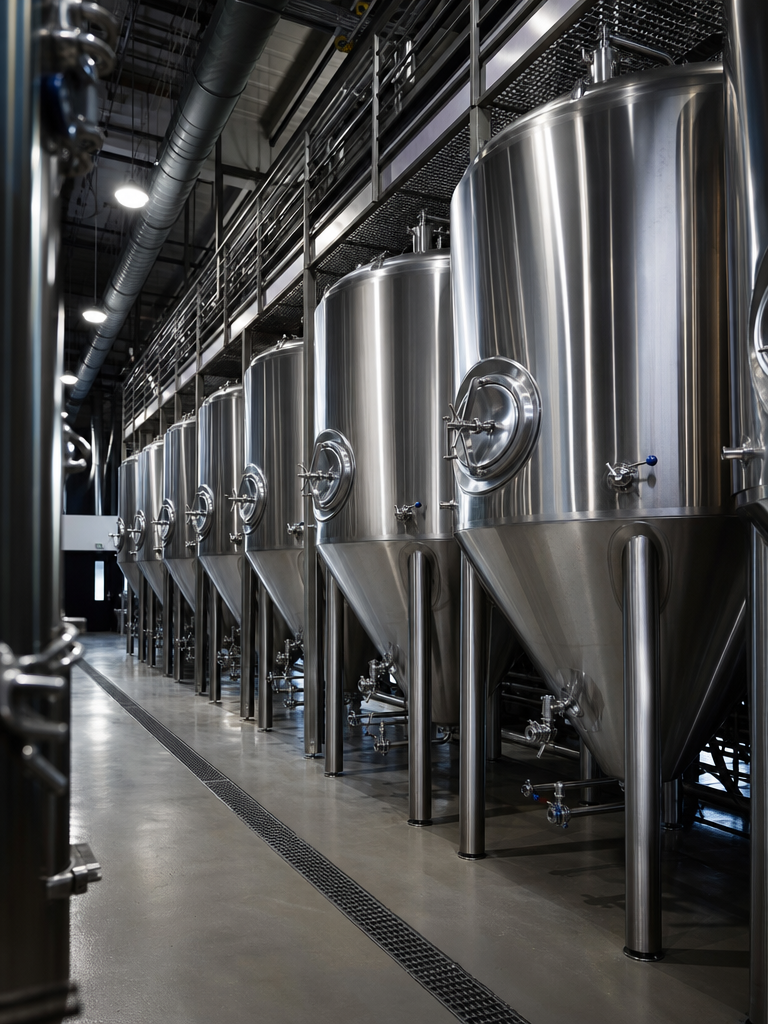
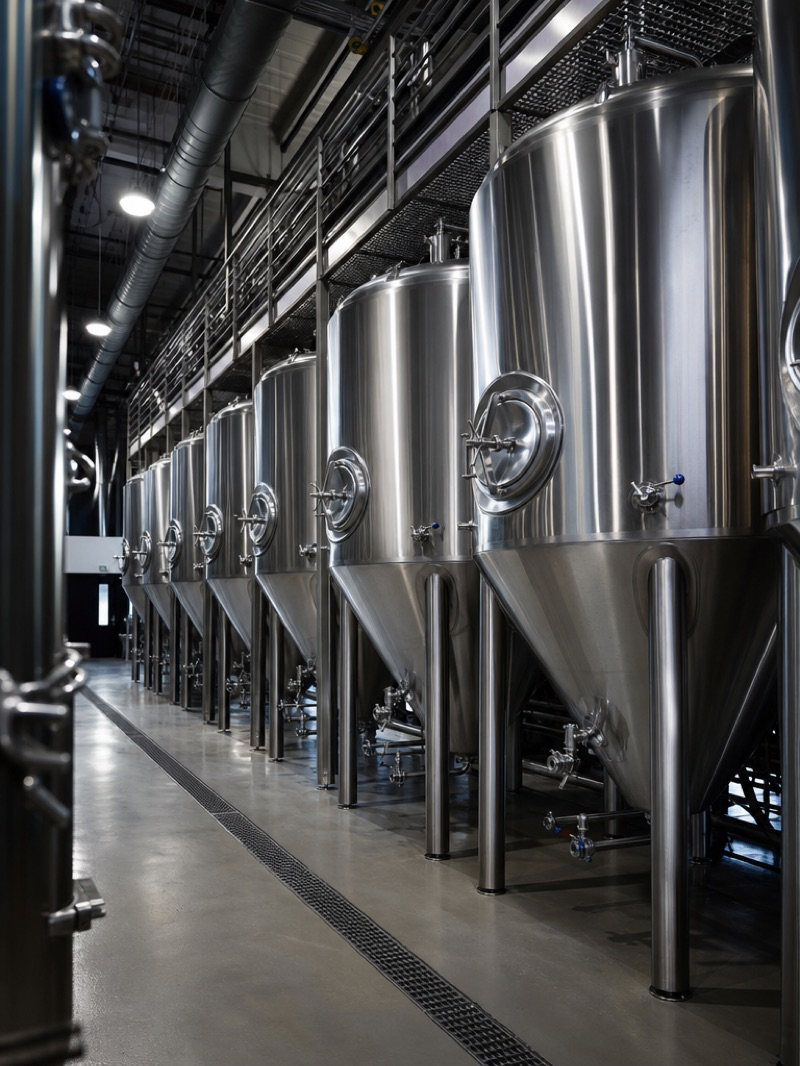
redesign category cards with AI images + wider layout

diff --git a/index.php b/index.php
@@ -709,51 +709,67 @@ window.scrollTo({top:document.querySelector('.db-qcard.active').offsetTop-120,be
 </section>
 
 <!-- EQUIPMENT CATEGORIES -->
-<section class="db-section alt" id="equipment">
-<div class="db-wrap">
+<section class="db-section alt" id="equipment" style="padding:64px 0 48px">
+<div class="db-wrap" style="max-width:1400px">
 <div class="db-section-line"></div>
 <h2 class="db-section-title">Категории оборудования</h2>
 <p class="db-section-sub">Полный каталог промышленного оборудования из нержавеющей стали AISI 304/316</p>
-<div class="cat-grid">
-<a href="/beer.html" class="cat-card" data-texture="beer">
-<div class="cat-card-texture"></div>
-<div class="cat-card-img"><img src="cct-tank.jpg" alt="Пивоваренное оборудование"></div>
-<div class="cat-card-body">
-<div class="cat-name">Пивоваренное оборудование</div>
-<div class="cat-desc">ЦКТ (100–50000 л), варочные порядки (6 типов), дробилки солода, баки горячей воды, парогенераторы, чиллеры, форфасы, теплообменники.</div>
-<div class="cat-count">13 категорий</div>
+<div class="cat-grid" style="grid-template-columns:repeat(auto-fill,minmax(280px,1fr));gap:24px">
+<a href="/beer.html" class="cat-card" style="position:relative;border-radius:14px;overflow:hidden;min-height:360px;display:flex;flex-direction:column;text-decoration:none;color:inherit;background:#fff;box-shadow:0 2px 12px rgba(0,0,0,.06);transition:transform .3s,box-shadow .3s;border:none" onmouseover="this.style.transform='translateY(-6px)';this.style.boxShadow='0 16px 48px rgba(247,124,42,.15)'" onmouseout="this.style.transform='';this.style.boxShadow=''">
+<div style="height:200px;overflow:hidden;position:relative">
+<img src="cat-img-565c2c35.jpg" alt="Пивоваренное оборудование" style="width:100%;height:100%;object-fit:cover;display:block;transition:transform .5s" onmouseover="this.style.transform='scale(1.08)'" onmouseout="this.style.transform='scale(1)'">
+<div style="position:absolute;bottom:0;left:0;right:0;height:60%;background:linear-gradient(transparent,rgba(0,0,0,.6))"></div>
 </div>
-<div class="cat-card-footer"><span class="btn-view">Перейти к каталогу</span></div>
+<div style="padding:20px 24px;flex:1;display:flex;flex-direction:column">
+<div style="font-size:18px;font-weight:700;color:#1a1a26;margin-bottom:4px">Пивоваренное</div>
+<div style="font-size:13px;color:#666;line-height:1.5;flex:1;margin-bottom:12px">ЦКТ, варочные порядки, дробилки, БГВ, парогенераторы, чиллеры, форфасы, теплообменники</div>
+<div style="display:flex;align-items:center;justify-content:space-between;border-top:1px solid #f0f0f0;padding-top:12px;margin-top:auto">
+<span style="font-size:12px;color:#F77C2A;font-weight:600">13 категорий</span>
+<span style="display:inline-flex;align-items:center;gap:4px;padding:6px 16px;background:linear-gradient(135deg,#F77C2A,#e06a15);color:#fff;border-radius:6px;font-size:12px;font-weight:700">Смотреть →</span>
+</div>
+</div>
 </a>
-<a href="/dairy.html" class="cat-card" data-texture="dairy">
-<div class="cat-card-texture"></div>
-<div class="cat-card-img"><img src="dairy-reception.jpg" alt="Молочное оборудование"></div>
-<div class="cat-card-body">
-<div class="cat-name">Молочное оборудование</div>
-<div class="cat-desc">Ёмкости приёмки и хранения молока, резервуары-охладители, ванны пастеризации, ферментационные танки, сыро- и творогоизготовители.</div>
-<div class="cat-count">10 категорий</div>
+<a href="/dairy.html" class="cat-card" style="position:relative;border-radius:14px;overflow:hidden;min-height:360px;display:flex;flex-direction:column;text-decoration:none;color:inherit;background:#fff;box-shadow:0 2px 12px rgba(0,0,0,.06);transition:transform .3s,box-shadow .3s;border:none" onmouseover="this.style.transform='translateY(-6px)';this.style.boxShadow='0 16px 48px rgba(247,124,42,.15)'" onmouseout="this.style.transform='';this.style.boxShadow=''">
+<div style="height:200px;overflow:hidden;position:relative">
+<img src="cat-dairy.jpg" alt="Молочное оборудование" style="width:100%;height:100%;object-fit:cover;display:block;transition:transform .5s" onmouseover="this.style.transform='scale(1.08)'" onmouseout="this.style.transform='scale(1)'">
+<div style="position:absolute;bottom:0;left:0;right:0;height:60%;background:linear-gradient(transparent,rgba(0,0,0,.6))"></div>
 </div>
-<div class="cat-card-footer"><span class="btn-view">Перейти к каталогу</span></div>
+<div style="padding:20px 24px;flex:1;display:flex;flex-direction:column">
+<div style="font-size:18px;font-weight:700;color:#1a1a26;margin-bottom:4px">Молочное</div>
+<div style="font-size:13px;color:#666;line-height:1.5;flex:1;margin-bottom:12px">Ёмкости приёмки и хранения, резервуары-охладители, ВДП, ферментационные танки, сыро- и творогоизготовители</div>
+<div style="display:flex;align-items:center;justify-content:space-between;border-top:1px solid #f0f0f0;padding-top:12px;margin-top:auto">
+<span style="font-size:12px;color:#F77C2A;font-weight:600">10 категорий</span>
+<span style="display:inline-flex;align-items:center;gap:4px;padding:6px 16px;background:linear-gradient(135deg,#F77C2A,#e06a15);color:#fff;border-radius:6px;font-size:12px;font-weight:700">Смотреть →</span>
+</div>
+</div>
 </a>
-<a href="/winery.html" class="cat-card" data-texture="wine">
-<div class="cat-card-texture"></div>
-<div class="cat-card-img"><img src="wine-red-fermentation.jpg" alt="Винодельческое оборудование"></div>
-<div class="cat-card-body">
-<div class="cat-name">Винодельческое оборудование</div>
-<div class="cat-desc">Ферментация красных и белых вин, выдержка и хранение, холодная стабилизация, купажирование, сульфитация, универсальные танки.</div>
-<div class="cat-count">7 категорий</div>
+<a href="/winery.html" class="cat-card" style="position:relative;border-radius:14px;overflow:hidden;min-height:360px;display:flex;flex-direction:column;text-decoration:none;color:inherit;background:#fff;box-shadow:0 2px 12px rgba(0,0,0,.06);transition:transform .3s,box-shadow .3s;border:none" onmouseover="this.style.transform='translateY(-6px)';this.style.boxShadow='0 16px 48px rgba(247,124,42,.15)'" onmouseout="this.style.transform='';this.style.boxShadow=''">
+<div style="height:200px;overflow:hidden;position:relative">
+<img src="cat-wine.jpg" alt="Винодельческое оборудование" style="width:100%;height:100%;object-fit:cover;display:block;transition:transform .5s" onmouseover="this.style.transform='scale(1.08)'" onmouseout="this.style.transform='scale(1)'">
+<div style="position:absolute;bottom:0;left:0;right:0;height:60%;background:linear-gradient(transparent,rgba(0,0,0,.6))"></div>
 </div>
-<div class="cat-card-footer"><span class="btn-view">Перейти к каталогу</span></div>
+<div style="padding:20px 24px;flex:1;display:flex;flex-direction:column">
+<div style="font-size:18px;font-weight:700;color:#1a1a26;margin-bottom:4px">Винодельческое</div>
+<div style="font-size:13px;color:#666;line-height:1.5;flex:1;margin-bottom:12px">Ферментация красных и белых вин, выдержка, криостабилизация, купажирование, сульфитация, винификаторы</div>
+<div style="display:flex;align-items:center;justify-content:space-between;border-top:1px solid #f0f0f0;padding-top:12px;margin-top:auto">
+<span style="font-size:12px;color:#F77C2A;font-weight:600">7 категорий</span>
+<span style="display:inline-flex;align-items:center;gap:4px;padding:6px 16px;background:linear-gradient(135deg,#F77C2A,#e06a15);color:#fff;border-radius:6px;font-size:12px;font-weight:700">Смотреть →</span>
+</div>
+</div>
 </a>
-<a href="/industrial.html" class="cat-card" data-texture="oil">
-<div class="cat-card-texture"></div>
-<div class="cat-card-img"><img src="industrial-cip.jpg" alt="Промышленное оборудование"></div>
-<div class="cat-card-body">
-<div class="cat-name">Промышленное оборудование</div>
-<div class="cat-desc">Резервуары для хранения, ёмкости с мешалкой, ёмкости с терморегуляцией, ёмкости под давлением, CIP-станции, теплообменники.</div>
-<div class="cat-count">6 категорий + опции</div>
+<a href="/industrial.html" class="cat-card" style="position:relative;border-radius:14px;overflow:hidden;min-height:360px;display:flex;flex-direction:column;text-decoration:none;color:inherit;background:#fff;box-shadow:0 2px 12px rgba(0,0,0,.06);transition:transform .3s,box-shadow .3s;border:none" onmouseover="this.style.transform='translateY(-6px)';this.style.boxShadow='0 16px 48px rgba(247,124,42,.15)'" onmouseout="this.style.transform='';this.style.boxShadow=''">
+<div style="height:200px;overflow:hidden;position:relative">
+<img src="cat-industrial.jpg" alt="Промышленное оборудование" style="width:100%;height:100%;object-fit:cover;display:block;transition:transform .5s" onmouseover="this.style.transform='scale(1.08)'" onmouseout="this.style.transform='scale(1)'">
+<div style="position:absolute;bottom:0;left:0;right:0;height:60%;background:linear-gradient(transparent,rgba(0,0,0,.6))"></div>
 </div>
-<div class="cat-card-footer"><span class="btn-view">Перейти к каталогу</span></div>
+<div style="padding:20px 24px;flex:1;display:flex;flex-direction:column">
+<div style="font-size:18px;font-weight:700;color:#1a1a26;margin-bottom:4px">Промышленное</div>
+<div style="font-size:13px;color:#666;line-height:1.5;flex:1;margin-bottom:12px">Резервуары для хранения, ёмкости с мешалкой, терморегуляция, давление, CIP-станции, теплообменники</div>
+<div style="display:flex;align-items:center;justify-content:space-between;border-top:1px solid #f0f0f0;padding-top:12px;margin-top:auto">
+<span style="font-size:12px;color:#F77C2A;font-weight:600">6 категорий</span>
+<span style="display:inline-flex;align-items:center;gap:4px;padding:6px 16px;background:linear-gradient(135deg,#F77C2A,#e06a15);color:#fff;border-radius:6px;font-size:12px;font-weight:700">Смотреть →</span>
+</div>
+</div>
 </a>
 </div>
 </div>